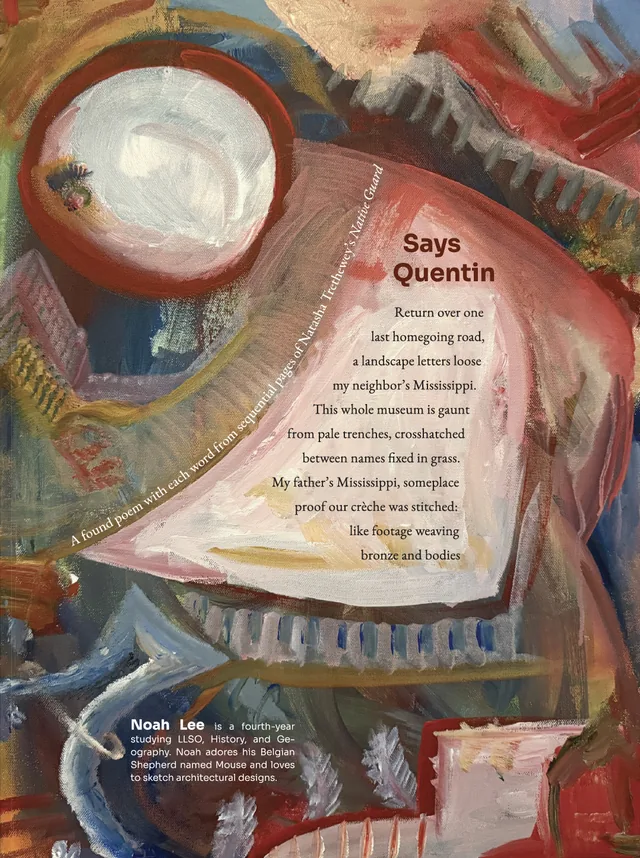
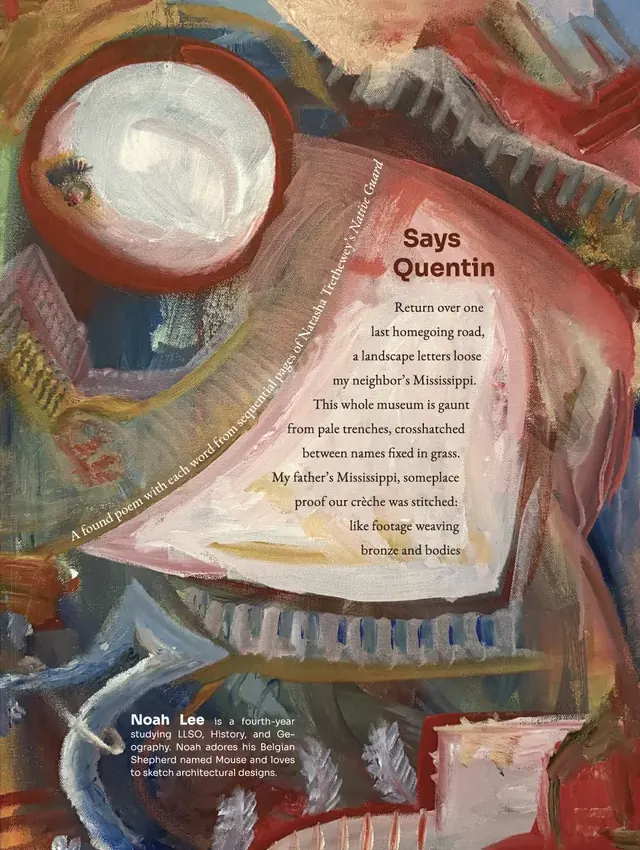
Match the Says Quentin spread to the detail’s aspect ratio.

diff --git a/index.html b/index.html
@@ -229,7 +229,7 @@
           <div class="art-plates">
             <div class="art-carousel">
               <figure class="art-plate art-lead" style="--ar: 0.7534"><button class="art-trigger" type="button"><picture><source sizes="(min-width: 1240px) 1180px, (min-width: 901px) 92vw, 92vw" srcset="art/web/says-quentin/1-detail-640.webp 640w, art/web/says-quentin/1-detail-1280.webp 1280w" type="image/webp"/><img alt="Painting of a pale draped form beneath a large convex mirror, surrounded by red and ochre architectural fragments" class="art-image" decoding="async" height="1699" loading="lazy" src="art/web/says-quentin/1-detail-640.jpg" width="1280"/></picture></button></figure>
-              <figure class="art-plate art-lead" hidden="" style="--ar: 0.7459"><button class="art-trigger" type="button"><picture><source sizes="(min-width: 1240px) 1180px, (min-width: 901px) 92vw, 92vw" srcset="art/web/says-quentin/2-full-640.webp 640w" type="image/webp"/><img alt="The full spread with the poem ‘Says Quentin’ set in a column beside the painting" class="art-image" decoding="async" height="858" loading="lazy" src="art/web/says-quentin/2-full-640.jpg" width="640"/></picture></button></figure>
+              <figure class="art-plate art-lead" hidden="" style="--ar: 0.7534"><button class="art-trigger" type="button"><picture><source sizes="(min-width: 1240px) 1180px, (min-width: 901px) 92vw, 92vw" srcset="art/web/says-quentin/2-full-640.webp 640w" type="image/webp"/><img alt="The full spread with the poem ‘Says Quentin’ set in a column beside the painting" class="art-image" decoding="async" height="850" loading="lazy" src="art/web/says-quentin/2-full-640.jpg" width="640"/></picture></button></figure>
               <p aria-live="polite" class="carousel-status">1 of 2</p>
             </div>
           </div>
